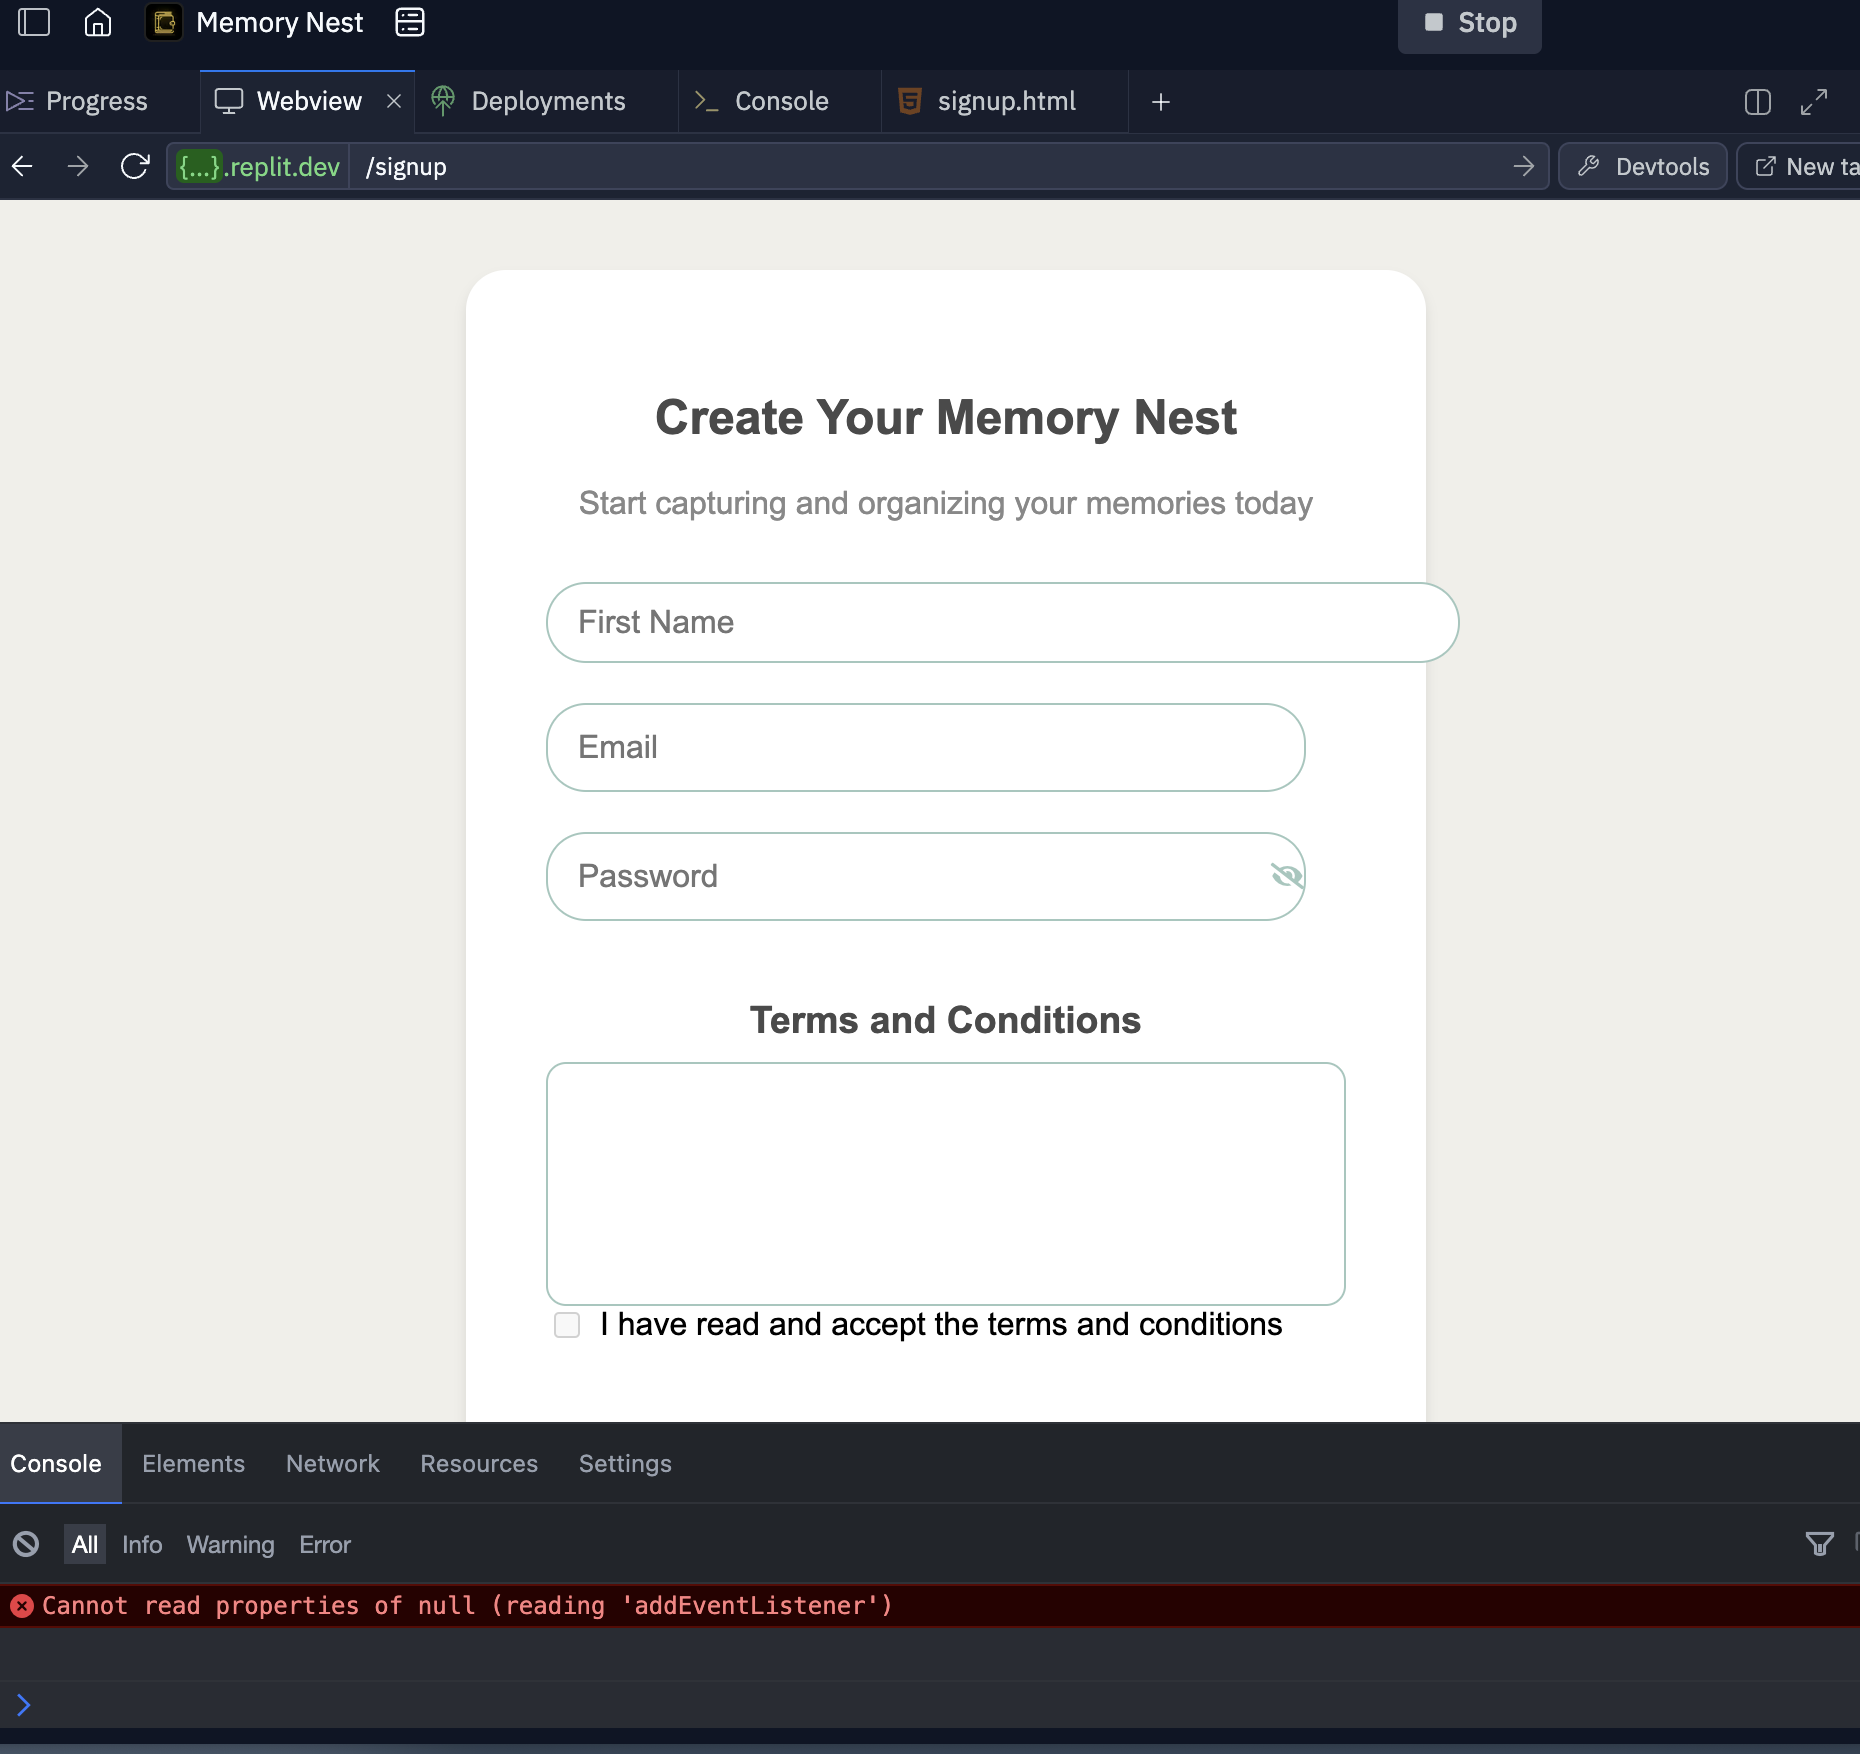
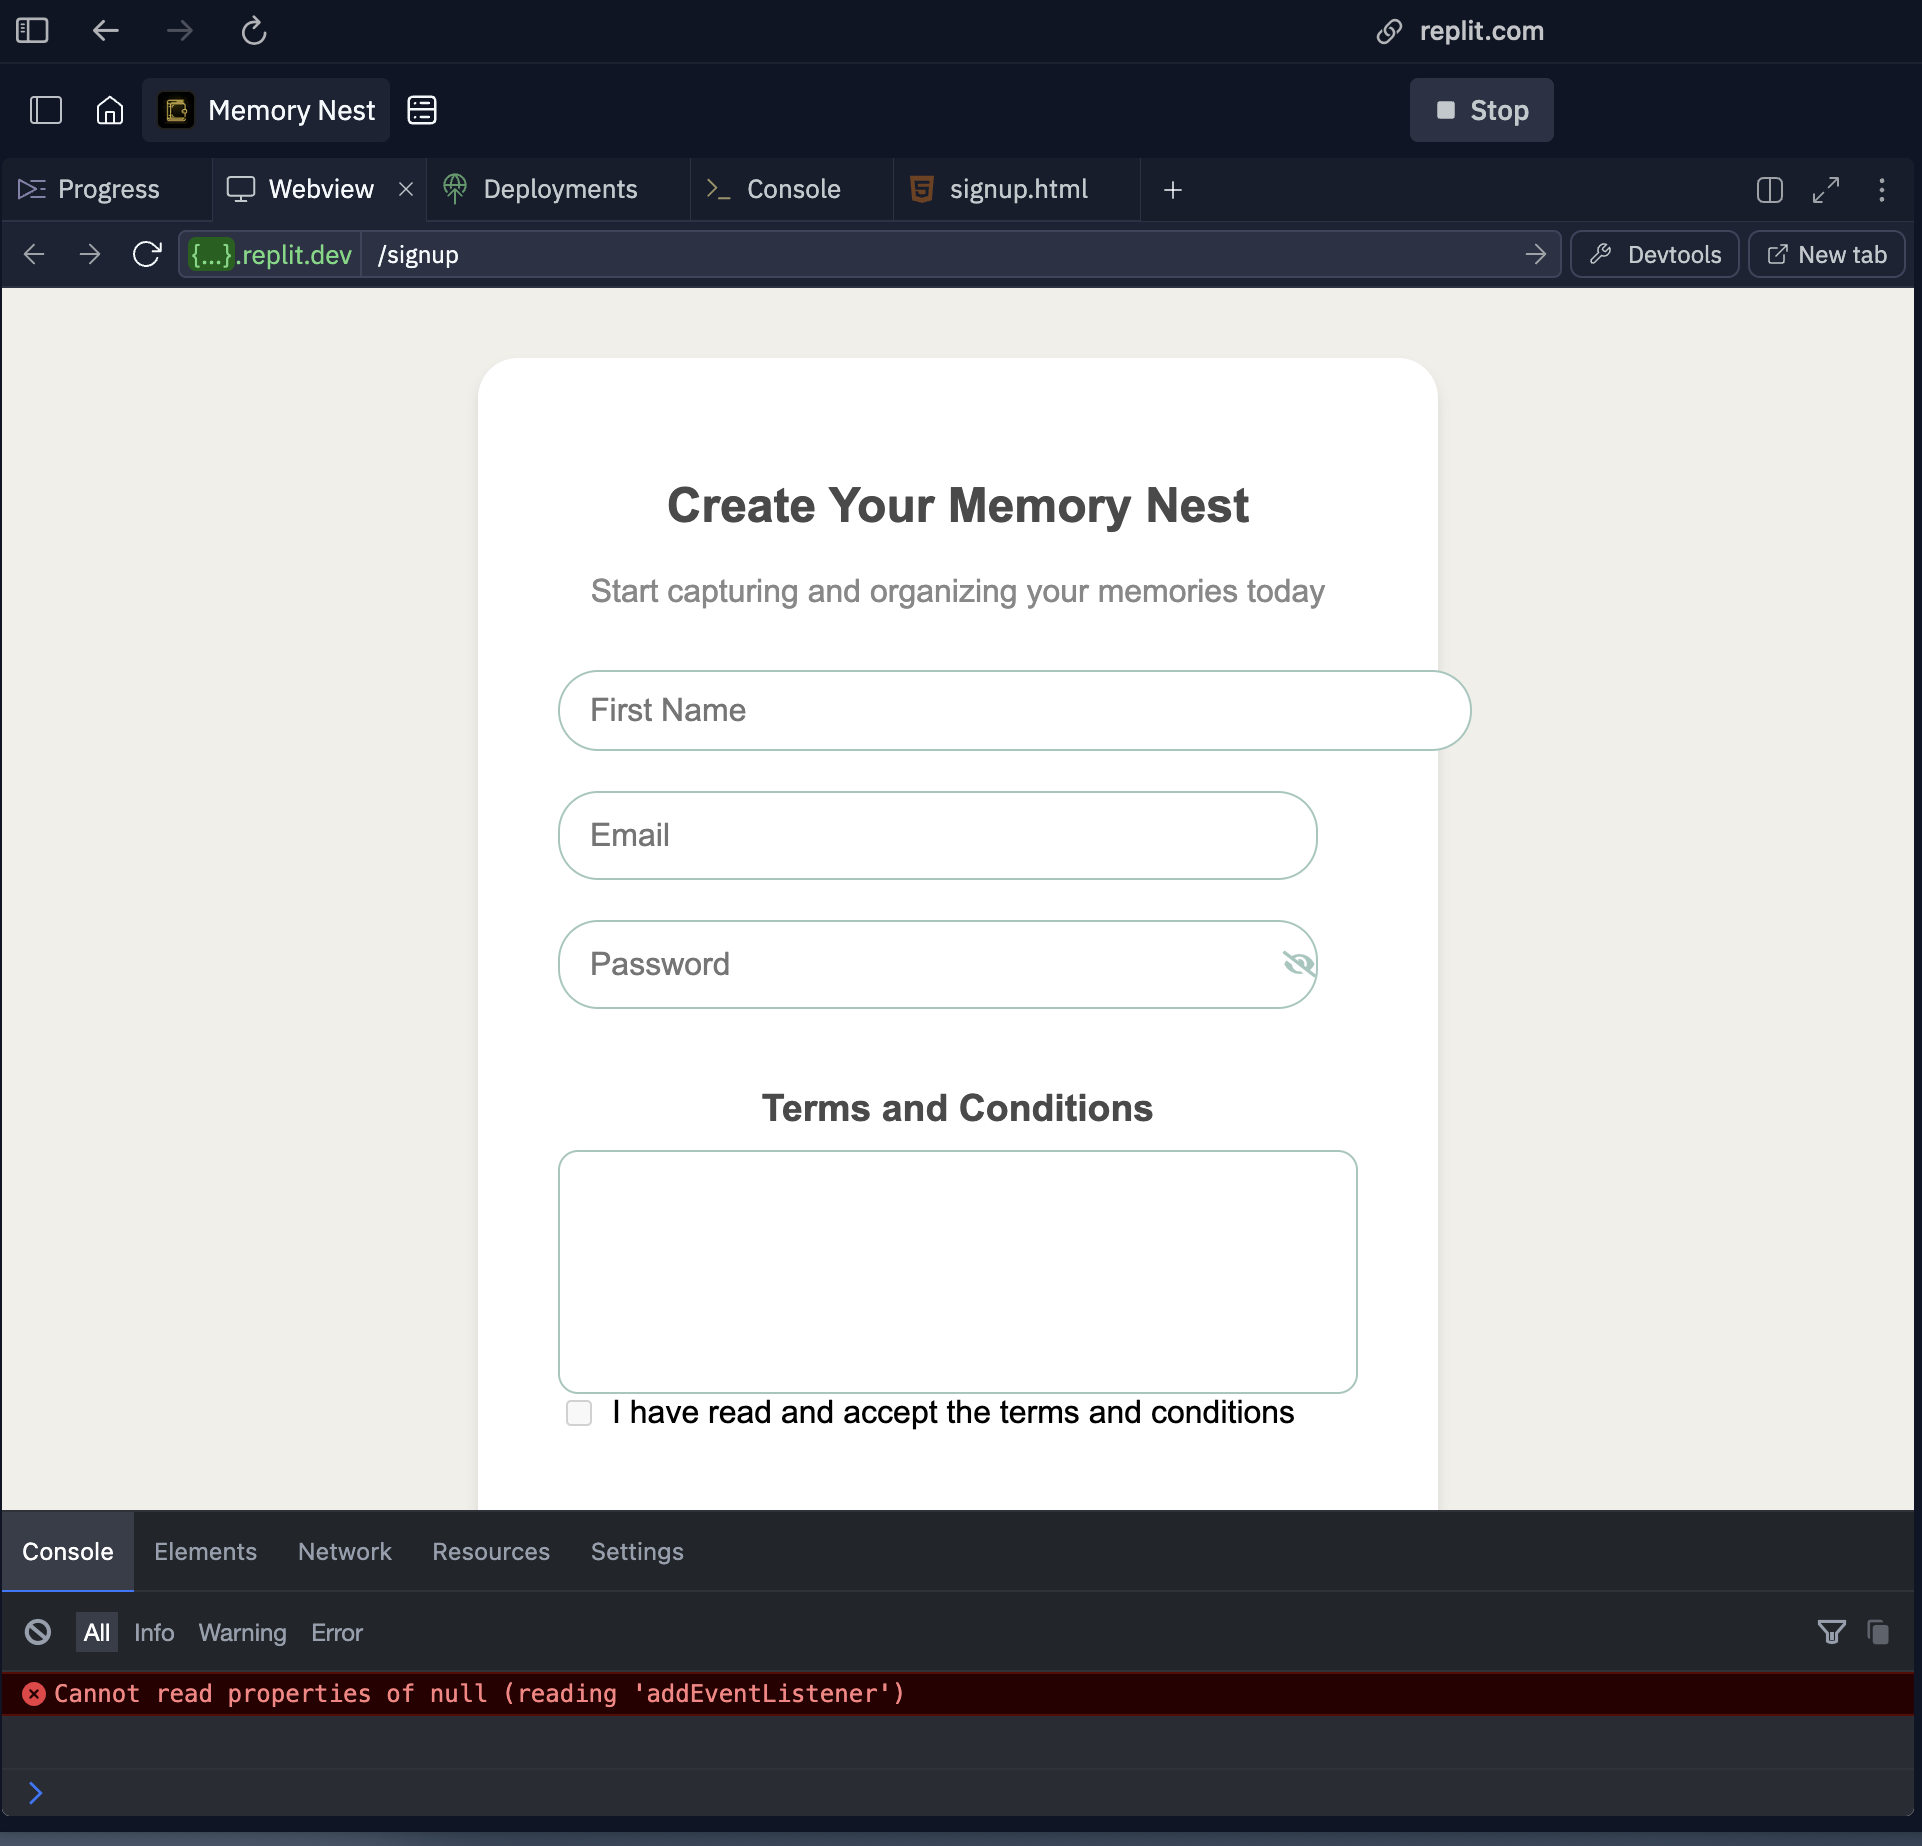
Agent step completed: Adjust First Name input box size on signup page

diff --git a/static/css/pages/signup.css b/static/css/pages/signup.css
@@ -11,6 +11,10 @@
     max-width: 400px;
 }
 
+.signup-form .input-group {
+    margin-bottom: 20px;
+}
+
 .signup-form input[type='text'],
 .signup-form input[type='email'],
 .signup-form input[type='password'] {
